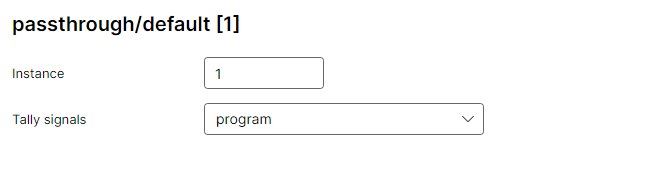
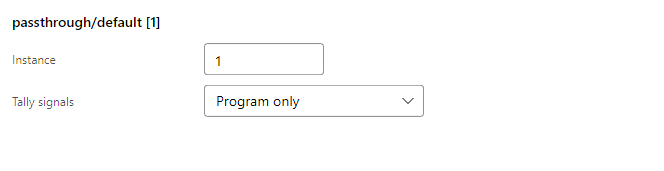
Use friendly names for mixer tally options

diff --git a/src/Cgf.CameraControl.App/Editing/Field.cs b/src/Cgf.CameraControl.App/Editing/Field.cs
@@ -1,4 +1,5 @@
 using System.Globalization;
+using System.Reactive.Linq;
 using System.Text.Json.Nodes;
 using Cgf.CameraControl.App.Localization;
 using Cgf.CameraControl.App.ViewModels;
@@ -205,13 +206,27 @@ public sealed partial class SwitchField : Field
     partial void OnValueChanged(bool value) => Write(JsonValue.Create(value));
 }
 
+public sealed record ChoiceOption(string Value, string? CaptionKey)
+{
+    public IObservable<string> Caption =>
+        CaptionKey is { } key ? Localizer.Current[key] : Observable.Return(Value);
+}
+
 /// One of a fixed set of names, which is how every enum in the configuration is written.
 public sealed partial class ChoiceField : Field
 {
-    public ChoiceField(JsonObject entry, string key, string label, IReadOnlyList<string> options, string fallback)
+    public ChoiceField(
+        JsonObject entry,
+        string key,
+        string label,
+        IReadOnlyList<string> options,
+        string fallback,
+        string? optionLabelPrefix = null)
         : base(entry, key, label)
     {
         Options = options;
+        Items = options.Select(value => new ChoiceOption(
+            value, optionLabelPrefix is null ? null : $"{optionLabelPrefix}.{value}")).ToArray();
         var written = entry[key]?.GetValue<string>();
         Value = written is not null && options.Contains(written, StringComparer.OrdinalIgnoreCase)
             ? written
@@ -221,7 +236,22 @@ public sealed partial class ChoiceField : Field
 
     public IReadOnlyList<string> Options { get; }
 
+    public IReadOnlyList<ChoiceOption> Items { get; }
+
+    public ChoiceOption? SelectedOption
+    {
+        get => Items.FirstOrDefault(option => string.Equals(option.Value, Value, StringComparison.OrdinalIgnoreCase));
+        set
+        {
+            if (value is not null)
+            {
+                Value = value.Value;
+            }
+        }
+    }
+
     [ObservableProperty]
+    [NotifyPropertyChangedFor(nameof(SelectedOption))]
     public partial string Value { get; set; } = string.Empty;
 
     protected internal override void Validate()

diff --git a/tests/Cgf.CameraControl.App.Tests/ConfigDraftTests.cs b/tests/Cgf.CameraControl.App.Tests/ConfigDraftTests.cs
@@ -1,3 +1,4 @@
+using System.Reactive.Linq;
 using Cgf.CameraControl.App.Editing;
 using Cgf.CameraControl.Core.Configuration;
 
@@ -67,6 +68,43 @@ public class ConfigDraftTests
 
     public class MixerTallyPolicy : ConfigDraftTests
     {
+        [Fact]
+        public void CameraProtocolNamesAndSelectionsRemainUnchanged()
+        {
+            var draft = Draft(Desk);
+            var field = Assert.Single(draft.Cameras[0].Fields.OfType<ChoiceField>());
+            Assert.Equal(field.Options, field.Items.Select(option => option.Caption.FirstAsync().Wait()));
+
+            field.SelectedOption = field.Items.Single(option => option.Value == "avonic");
+
+            Assert.Equal("avonic", field.Value);
+            Assert.Equal("avonic", draft.ToConfig().Cams[0].Raw.GetProperty("tallyMode").GetString());
+        }
+
+        [Theory]
+        [InlineData("blackmagicdesign/atem")]
+        [InlineData("passthrough/default")]
+        public void FriendlyNamesKeepTheStoredPolicyValues(string type)
+        {
+            var draft = Draft($$"""
+                {"videoMixers":[{"type":"{{type}}","instance":1,"ip":"10.0.0.1","mixEffectBlock":0}]}
+                """);
+            var field = Assert.Single(draft.Mixers[0].Fields.OfType<ChoiceField>());
+            Assert.Equal(new[] { "Program and preview", "Program only", "Disabled" },
+                field.Items.Select(option => option.Caption.FirstAsync().Wait()));
+            Assert.NotNull(field.SelectedOption);
+            Assert.Equal("preview-program", field.SelectedOption.Value);
+            Assert.False(draft.IsDirty);
+
+            field.SelectedOption = field.Items[^1];
+            foreach (var option in field.Items)
+            {
+                field.SelectedOption = option;
+                Assert.Equal(option.Value, field.Value);
+                Assert.Equal(option.Value, draft.ToConfig().VideoMixers[0].Raw.GetProperty("tallyMode").GetString());
+            }
+        }
+
         [Theory]
         [InlineData("blackmagicdesign/atem")]
         [InlineData("passthrough/default")]

diff --git a/src/Cgf.CameraControl.App/Editing/EntrySchema.cs b/src/Cgf.CameraControl.App/Editing/EntrySchema.cs
@@ -50,11 +50,13 @@ internal static class EntrySchema
             [
                 new TextField(entry, "ip", "edit.ip", required: true),
                 new NumberField(entry, "mixEffectBlock", "edit.mixEffectBlock", required: true, minimum: 0),
-                new ChoiceField(entry, "tallyMode", "edit.mixerTallyMode", ["preview-program", "program", "none"], "preview-program"),
+                new ChoiceField(entry, "tallyMode", "edit.mixerTallyMode", ["preview-program", "program", "none"], "preview-program",
+                    optionLabelPrefix: "edit.mixerTally"),
             ],
             "passthrough/default" =>
             [
-                new ChoiceField(entry, "tallyMode", "edit.mixerTallyMode", ["preview-program", "program", "none"], "preview-program"),
+                new ChoiceField(entry, "tallyMode", "edit.mixerTallyMode", ["preview-program", "program", "none"], "preview-program",
+                    optionLabelPrefix: "edit.mixerTally"),
             ],
             "gamepad" =>
             [

diff --git a/docs/Configuration/VideoMixers.md b/docs/Configuration/VideoMixers.md
@@ -13,11 +13,11 @@ number in that interface's `cameraMap` and `keys.input` is one of this mixer's i
 Both mixer types accept `tallyMode`. It controls the signals sent to every camera mapped by an
 interface using that mixer, independently of the camera's tally protocol.
 
-| `tallyMode` | This mixer's contribution |
-| --- | --- |
-| `preview-program` | preview and program, with program taking priority; the default |
-| `program` | program only; off for preview cameras |
-| `none` | off for all mapped cameras |
+| Editor option | `tallyMode` | This mixer's contribution |
+| --- | --- | --- |
+| Program and preview | `preview-program` | preview and program, with program taking priority; the default |
+| Program only | `program` | program only; off for preview cameras |
+| Disabled | `none` | off for all mapped cameras |
 
 For example, `"tallyMode": "program"` on an ATEM mixer contributes a lit tally only for its
 on-air camera. Disabling tally sends off updates rather than ignoring changes.
